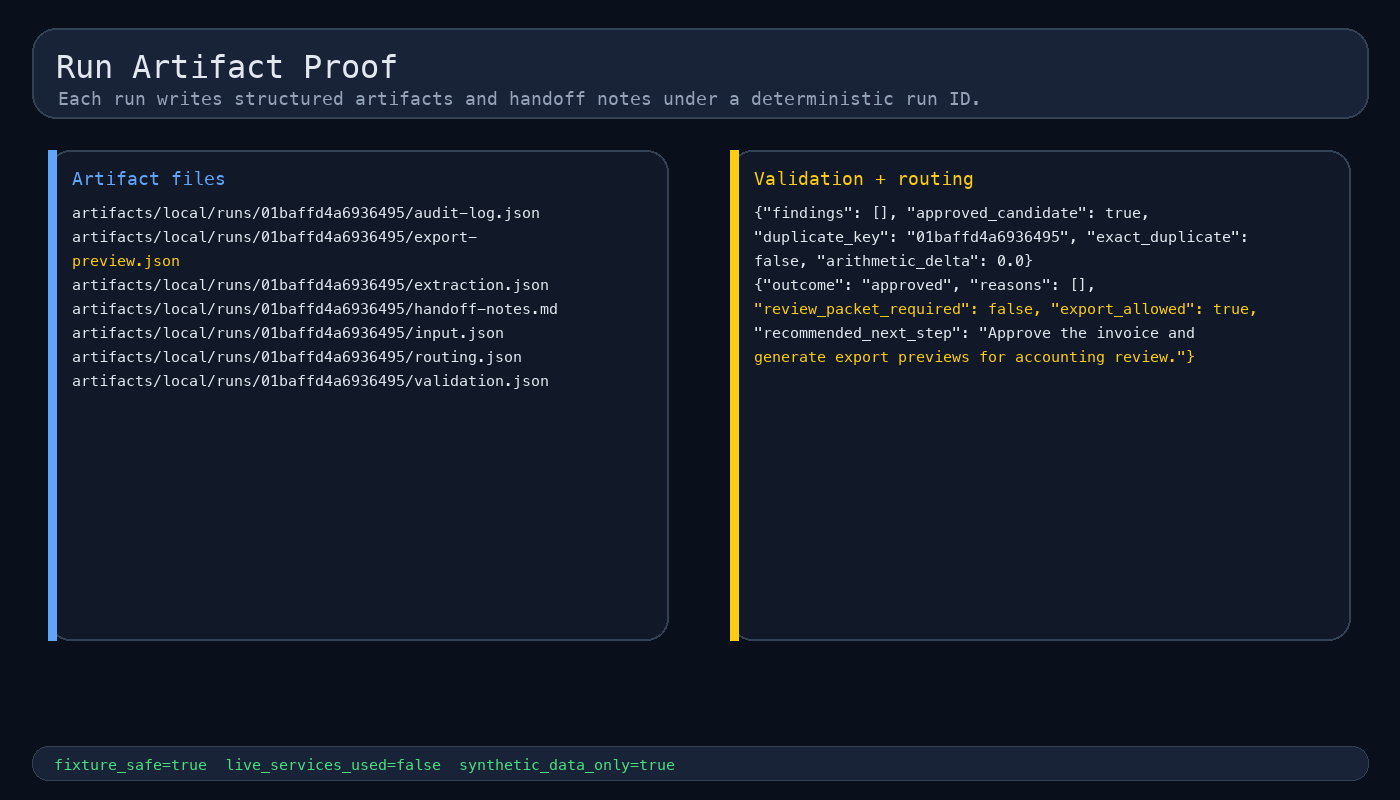
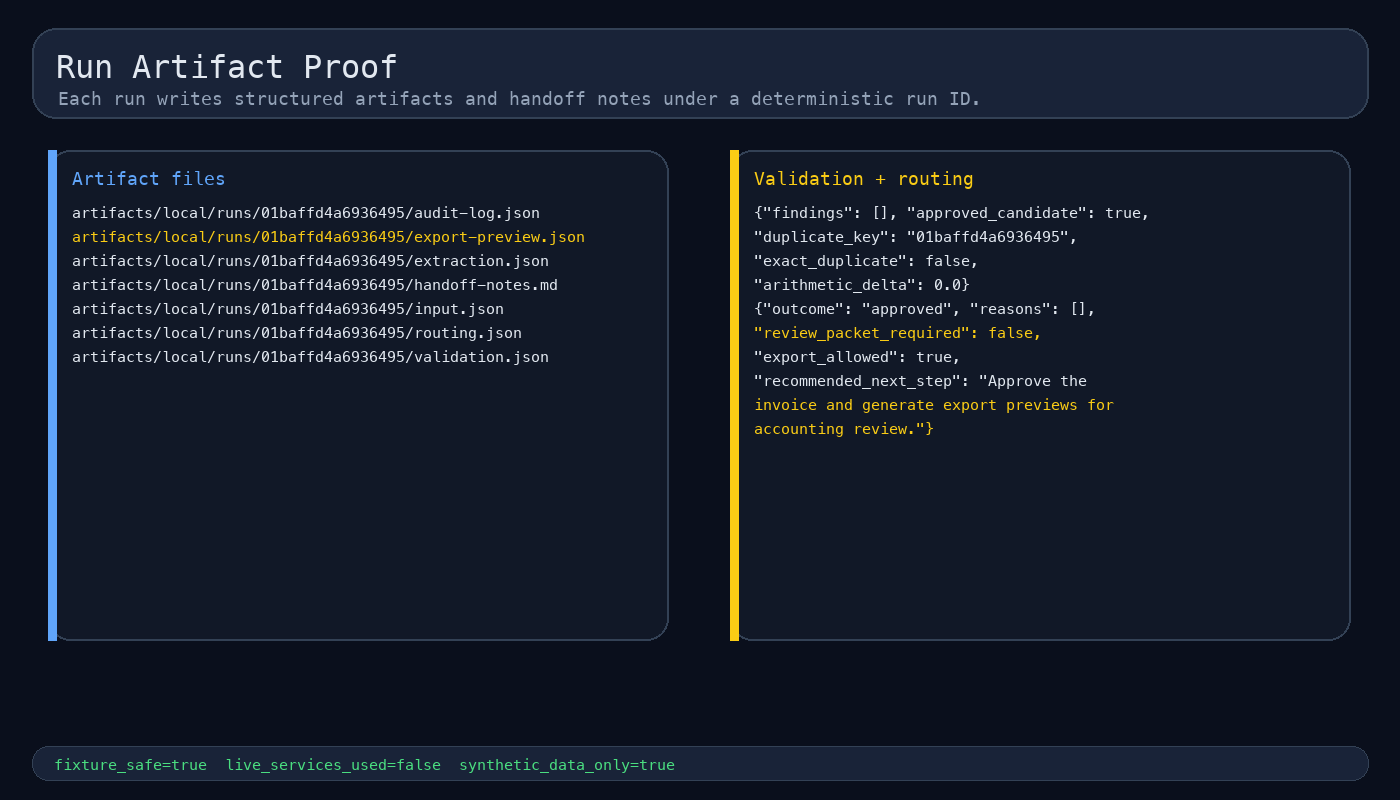
fix: harden screenshot text wrapping

Changed region(s): [[0.5221, 0.3125, 0.8907, 0.5625], [0.0614, 0.2812, 0.43, 0.5], [0.7986, 0.2812, 0.8907, 0.3125]]

diff --git a/scripts/generate_screenshots.py b/scripts/generate_screenshots.py
@@ -63,10 +63,18 @@ def run_command(command: list[str], max_lines: int = 12) -> list[str]:
     return lines[:max_lines] or ["command completed with no output"]
 
 
-def wrap(lines: list[str], width: int = 56) -> list[str]:
+def wrap(lines: list[str], width: int = 44) -> list[str]:
     output: list[str] = []
     for line in lines:
-        output.extend(textwrap.wrap(line, width=width) or [""])
+        output.extend(
+            textwrap.wrap(
+                line,
+                width=width,
+                break_long_words=False,
+                break_on_hyphens=False,
+            )
+            or [""]
+        )
     return output
 
 
